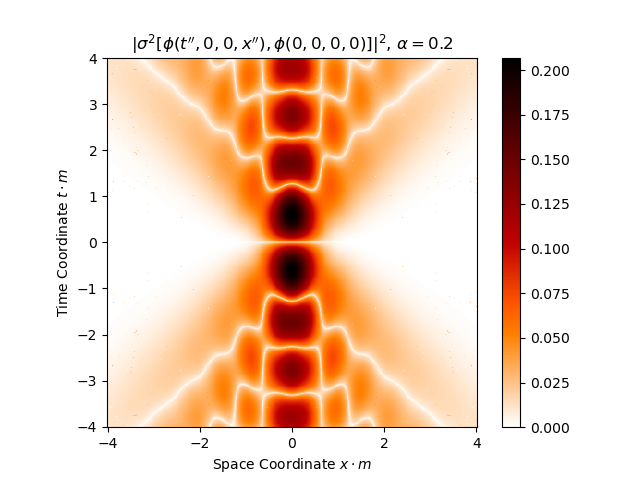
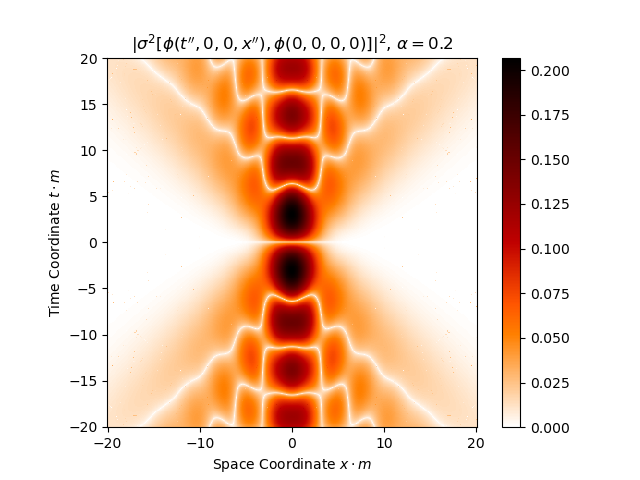
New output.

diff --git a/commutators.py b/commutators.py
@@ -34,11 +34,15 @@ def comm(x, t, a):
     
     return abs(1/(2 * np.pi**2) * t * I)**2
 
-def calc(lim_x, lim_t, step, alpha):
+def calc(lim_x, lim_t, step, alpha, hat_coords=False):
     xs = np.linspace(-lim_x, lim_x, step)
     ts = np.linspace(-lim_t, lim_t, step)
     
     xx, tt = np.meshgrid(xs, ts)
+    
+    if hat_coords:
+        xx = xx / alpha
+        tt = tt / alpha
     
     # manual parallel processing
     #arguments = [(x, t, alpha) for t in ts for x in xs]
@@ -55,10 +59,17 @@ def calc(lim_x, lim_t, step, alpha):
 
 import matplotlib.pyplot as plt
 
-def plot(xx, tt, z, sigma, mass, label=None, log=False, show=True):
+def plot(xx, tt, z, sigma, mass, label=None, log=False, show=True, hat_coords=False):
     ax = plt.gca()
     ax.axis('equal')
     ax.set_box_aspect(1)
+    
+    alpha = sigma*mass
+    coord_label = "/\sigma"
+    if hat_coords:
+        xx = alpha * xx
+        tt = alpha * tt
+        coord_label = "\cdot m"
     
     # heat_r, gist_heat_r, ...
     cnt = plt.pcolormesh(xx, tt, z, cmap='gist_heat_r', antialiased=False, shading='auto')
@@ -66,10 +77,10 @@ def plot(xx, tt, z, sigma, mass, label=None, log=False, show=True):
     #plt.imshow(z)
     
     plt.colorbar()
-    plt.xlabel(r"Space Coordinate $x/\sigma$")
-    plt.ylabel(r"Time Coordinate $t/\sigma$")
+    plt.xlabel(f"Space Coordinate $x{coord_label}$")
+    plt.ylabel(f"Time Coordinate $t{coord_label}$")
     plt.title("$" + (r"\log" if log else "") + "|\sigma^2 [\phi(t'',0,0,x''), \phi(0,0,0,0)]|^2$, "
-                  + r"$\alpha" + f" = {sigma*mass}$")
+                  + r"$\alpha" + f" = {alpha}$")
     
     if label:
         plt.savefig(FOLDER + label + ("-log" if log else "") + ".png")
@@ -77,18 +88,20 @@ def plot(xx, tt, z, sigma, mass, label=None, log=False, show=True):
     if show:
         plt.show()
     
-def run1(lim_x, lim_t, step, sigma, mass, label=None, log=False, show=True):
+def run1(lim_x, lim_t, step, sigma, mass, label=None, log=False, show=True, hat_coords=False):
     alpha = sigma * mass
     
-    xx, tt, z = calc(lim_x, lim_t, step, alpha)
+    xx, tt, z = calc(lim_x, lim_t, step, alpha, hat_coords=hat_coords)
     
     if not label:
         label = f"numerical-commutator-m{mass}-s{sigma}-l{lim_x}-{lim_t}"
     
-    plot(xx, tt, z**(1/4), sigma, mass, label=label, show=show)
+    plot(xx, tt, z**(1/4), sigma, mass, label=label, show=show, hat_coords=hat_coords)
     
     if log:
         plot(xx, tt, np.log(z), sigma, mass, label=label, log=True, show=show)
 
 def run2(alpha):
-    run1(20, 20, 400, alpha, 1, log=False)
+    """ To be parallelized. """
+    run1(20, 20, 400, alpha, 1, log=False, show=False, hat_coords=True)
+
